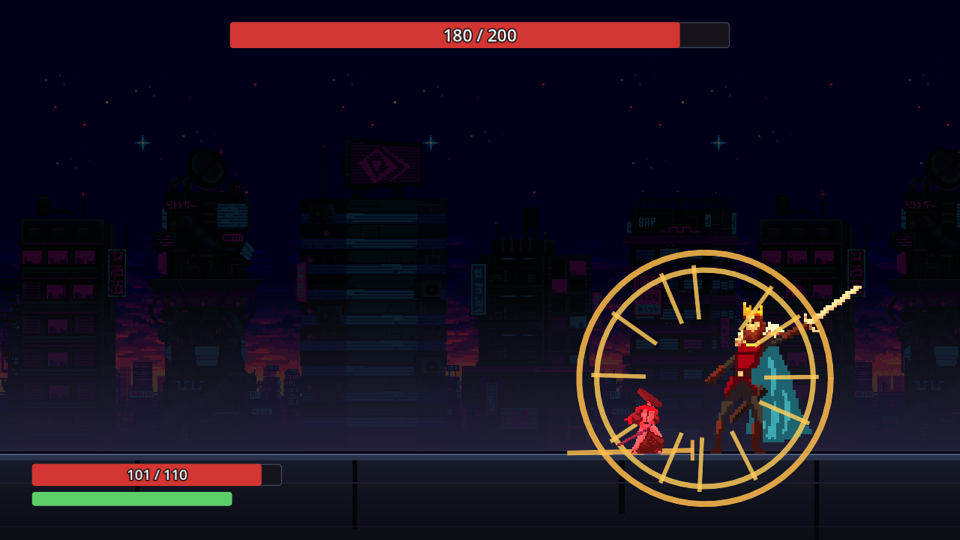
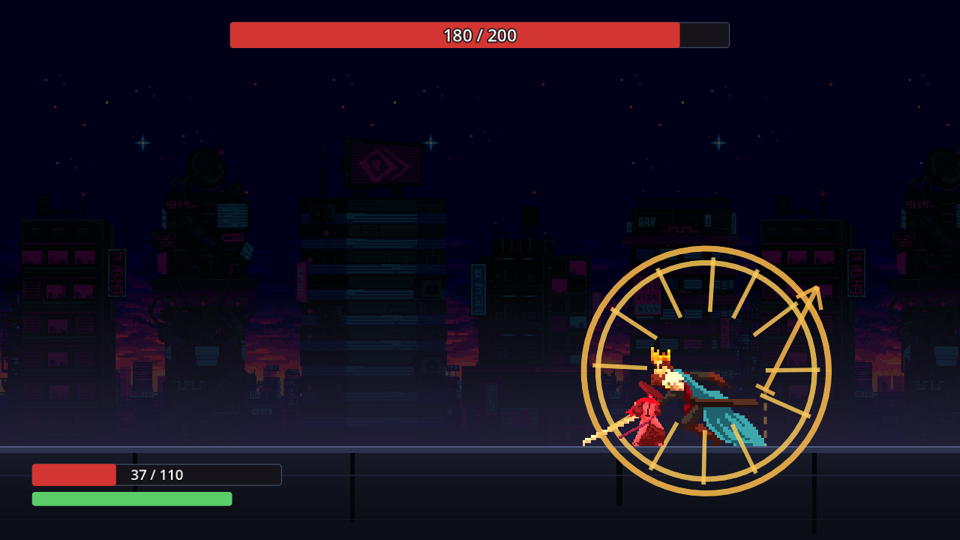
캐릭터를 하나로 줄이고 공격을 실제 그림에 맞춘다 (#38)
유저가 공격해도 칼 휘두르는 그림이 안 나왔다. 원인은 공격 액션이
애니메이션보다 짧았던 것이다 — Martial Hero 의 attack 은 6프레임 ·
12fps = 0.50초인데 중검의 액션은 0.30초라, 액션이 끝나며 뷰가 idle 로
돌아가 **칼이 나가는 4번 프레임까지 간 적이 한 번도 없었다.**
여기에 공격 섬광(2.10, 2.10, 1.70)이 그나마 보이던 몇 프레임을 덮었다.

- fighters.json 을 `검객` 하나로. 수치는 게임이 실제로 돌리던 중검
  그대로라 대시 사거리 · 점프 정점 · 패턴 기하가 안 움직인다.
- 공격 시간을 그림에서 거꾸로 정한다. 시트를 열어 보면 칼은 4번
  프레임에서 나간다: 선딜 0~3 (0.3333) · 판정 4 (0.0833) · 후딜 5
  (0.0834), 합이 정확히 0.50초다. attack_anim_* 세 값을 데이터에 적어
  FighterDataTests 가 그 관계를 지킨다 — .tres 에만 있으면 테스트가
  못 읽어 다시 조용히 어긋난다.
- 공격 섬광을 (1.25, 1.20, 1.00) 으로 낮춘다. 세기는 앞쪽 슬래시 링이
  맡는다 — 이 자리에는 작가가 그린 흰 궤적이 이미 있어서, 할 일은 말을
  더 하는 것이 아니라 그 그림을 안 가리는 것이다.
- 스크린샷이 프레임 수를 세지 않는다. Battle.FighterAttackActive 를 보고
  셔터를 누른다 — 세어 두면 타이밍을 고칠 때마다 조용히 어긋난다.
- PatternDataTests 의 두 점프 가드에 캐릭터 집합 비었는지 확인을 맞춘다.
  패턴 하나의 jumpable 을 뒤집어 둘 다 실제로 빨개지는 것을 확인했다.
- 캐릭터 3택이 사라져도 난이도 예측의 character 축은 남긴다. 지금 1종이라
  상수지만, 지우면 캐릭터가 늘 때 라벨을 처음부터 다시 만들어야 한다.

Changed region(s): [[0.0, 0.4444, 1.0, 0.9481]]

diff --git a/tests/Overfit.Rules.Tests/Battle/FighterDataTests.cs b/tests/Overfit.Rules.Tests/Battle/FighterDataTests.cs
@@ -13,10 +13,20 @@ public class FighterDataTests
     private static Dictionary<string, FighterConfig> Load() =>
         JsonData<FighterConfig>.ParseTable(File.ReadAllText(Path.Combine("data", "fighters.json")), "fighters.json");
 
+    /// <summary>
+    /// 시뮬레이션이 볼 수 있는 가장 짧은 시간. 이보다 가는 차이는 규칙 층에서 관측되지 않으므로
+    /// 애니메이션과 액션을 맞출 때의 허용 오차도 이것이다 — 더 좁게 잡으면 데이터에 적을 수 없는
+    /// 소수(1/12초 = 0.0833…)를 요구하게 되고, 더 넓게 잡으면 한 프레임이 통째로 어긋나도 초록이다.
+    /// </summary>
+    private const double _halfTick = BattleSim.Dt / 2;
+
     [Fact]
-    public void 캐릭터가_셋이다()
+    public void 캐릭터가_하나다()
     {
-        Load().Count.ShouldBe(3);
+        // 셋(단검 · 중검 · 대검)이던 것을 하나로 줄였다 (이슈 #38). 캐릭터 3택은 성장 루프와
+        // 같이 빠졌는데(이슈 #22) 데이터만 남아 있었고, 그림은 처음부터 셋이 같은 하나였다.
+        // 아래 가드들이 전부 이 표를 순회하므로, 표가 비면 그것들이 통째로 공허하게 참이 된다.
+        Load().Count.ShouldBe(1);
     }
 
     [Fact]
@@ -58,7 +68,7 @@ public class FighterDataTests
     /// <summary>
     /// 대시 한 번이 실제로 가는 거리(px). <b>속도 × 지속을 곱해 적지 않는다</b> —
     /// 행동이 끝나는 틱에는 <c>Move</c> 가 이미 Idle 을 보므로 실제 이동 틱은 하나 적고,
-    /// 그 한 틱(중검 기준 36.7px)이 "보스를 지나는가" 의 경계에 그대로 걸린다.
+    /// 그 한 틱(36.7px)이 "보스를 지나는가" 의 경계에 그대로 걸린다.
     /// <see cref="PatternDataTests"/> 의 점프 정점과 같은 이유로 규칙을 직접 돌린다.
     /// </summary>
     private static double DashTravel(FighterConfig config)
@@ -78,7 +88,7 @@ public class FighterDataTests
     public void 대시는_보스_몸을_한_번에_지난다()
     {
         // 이슈 #27 의 대시 요구다. "몸 하나를 지난다" 는 **닿은 자리에서 반대편 닿은 자리까지**,
-        // 즉 보스 반폭 + 파이터 반폭의 두 배다 (보스 반폭 85 · 중검 30 → 230px).
+        // 즉 보스 반폭 + 파이터 반폭의 두 배다 (보스 반폭 85 · 파이터 반폭 30 → 230px).
         // 전에는 1100 × 0.18 ≈ 198(실측 183)이라 몸 하나도 못 지났다 — 몸 충돌이 있던 때는
         // 벽에 막혀서 그 사실이 안 보였고, 통과가 열린 지금은 그대로 몸 안에 서게 된다.
         double bossHalf = TestConfigs.Boss().HalfWidth;
@@ -96,25 +106,55 @@ public class FighterDataTests
         // 사거리를 늘릴 때 **무적 비율을 건드리지 않았다**는 계약이다(이슈 #27).
         // 거리는 속도로 늘리고 지속·무적은 그대로 둔다 — 지속을 늘려 거리를 벌면 무적 비율이
         // 같이 움직여 "더 멀리 가는 같은 기술" 이 아니라 **다른 기술**이 된다.
-        // 셋이 비슷해야 캐릭터를 바꿔도 대시 타이밍 축이 같은 것을 재는 값이 된다.
+        // 캐릭터가 여럿이 되면 전부 이 범위 안이어야 한다 — 그래야 캐릭터를 바꿔도
+        // 대시 타이밍 축이 같은 것을 재는 값이다.
         foreach ((string id, FighterConfig c) in Load())
         {
             double share = c.DashIFrames / c.DashDuration;
-            share.ShouldBeInRange(0.70, 0.85, $"{id}: 무적 비율 {share:0.00} 이 다른 캐릭터와 다른 기술이 됐다");
+            share.ShouldBeInRange(0.70, 0.85, $"{id}: 무적 비율 {share:0.00} 이 대시를 다른 기술로 만든다");
         }
     }
 
     [Fact]
-    public void 사거리와_속도가_반대로_간다()
+    public void 공격_액션이_공격_애니메이션_한_번과_같은_길이다()
     {
-        // 빠른 것은 짧고 느린 것은 길다. 셋이 같은 값이면 캐릭터 선택이 무의미하다.
-        Dictionary<string, FighterConfig> all = Load();
-        var byReach = new List<FighterConfig>(all.Values);
-        byReach.Sort((a, b) => a.AttackReach.CompareTo(b.AttackReach));
+        // **이 저장소에서 실제로 밟은 버그다** (이슈 #38). 공격 액션의 총 길이(선딜 + 판정 + 후딜)가
+        // 애니메이션 재생 시간보다 짧으면, 액션이 끝나는 순간 뷰가 자세를 idle 로 되돌려
+        // 애니메이션이 중간에서 잘린다. 중검은 0.30초짜리 액션으로 0.50초짜리 6프레임을 돌렸고,
+        // 칼이 나가는 5번째 프레임까지 간 적이 한 번도 없었다 — **칼 휘두르는 그림이 안 보였다.**
+        //
+        // 그래서 순서를 뒤집는다: 애니메이션이 먼저고 액션 길이가 거기 맞춘다.
+        foreach ((string id, FighterConfig c) in Load())
+        {
+            double anim = c.AttackAnimFrames / c.AttackAnimFps;
+            double cycle = c.AttackWindup + c.AttackActive + c.AttackRecover;
+            cycle.ShouldBe(anim, _halfTick,
+                $"{id}: 공격 액션 {cycle:0.0000}초가 애니메이션 {anim:0.0000}초와 다르다 — 그림이 잘리거나 남는다");
+        }
+    }
 
-        // 사거리가 짧을수록 공격 사이클이 빨라야 한다
-        double CycleOf(FighterConfig c) => c.AttackWindup + c.AttackActive + c.AttackRecover;
-        CycleOf(byReach[0]).ShouldBeLessThan(CycleOf(byReach[1]));
-        CycleOf(byReach[1]).ShouldBeLessThan(CycleOf(byReach[2]));
+    [Fact]
+    public void 공격_판정이_칼이_지나가는_프레임_위에_선다()
+    {
+        // 판정이 서는 구간과 **화면에서 칼이 지나가는 구간**이 같은 자리여야 한다.
+        // 어긋나면 "닿았는데 칼은 아직 등 뒤" 또는 그 반대가 되고, 플레이어는 사거리를 못 배운다.
+        // blade_frame 은 시트를 실제로 열어서 정한 값이다 — 프레임 번호로 짐작한 것이 아니다.
+        foreach ((string id, FighterConfig c) in Load())
+        {
+            double frame = 1 / c.AttackAnimFps;
+
+            c.AttackAnimBladeFrame.ShouldBeInRange(0, c.AttackAnimFrames - 1,
+                $"{id}: blade_frame={c.AttackAnimBladeFrame} 이 {c.AttackAnimFrames}프레임 밖이다");
+
+            c.AttackWindup.ShouldBe(c.AttackAnimBladeFrame * frame, _halfTick,
+                $"{id}: 선딜이 끝나는 자리가 칼이 나가는 {c.AttackAnimBladeFrame}번 프레임의 시작과 다르다");
+
+            c.AttackActive.ShouldBeGreaterThanOrEqualTo(frame - _halfTick,
+                $"{id}: 판정이 한 프레임보다 짧다 — 칼이 지나가는 그림 위에 판정이 못 선다");
+
+            (c.AttackWindup + c.AttackActive).ShouldBeLessThanOrEqualTo(
+                (c.AttackAnimFrames / c.AttackAnimFps) + _halfTick,
+                $"{id}: 판정이 애니메이션 밖으로 넘친다");
+        }
     }
 }

diff --git a/overfit/battle/view/FighterView.cs b/overfit/battle/view/FighterView.cs
@@ -52,7 +52,19 @@ public partial class FighterView : Node2D
     /// <summary>부정확 패리에 굳은 동안의 몸 색. 어둡고 채도가 죽는다 — 안 보이면
     /// 0.6초 동안 키가 안 먹는 것이 버그로 읽힌다.</summary>
     private static readonly Color _lockedTint = new(0.50f, 0.46f, 0.58f);
-    private static readonly Color _attackFlash = new(2.10f, 2.10f, 1.70f);
+
+    /// <summary>
+    /// 공격 섬광. <b>일부러 약하다.</b> 전에는 (2.10, 2.10, 1.70) 이라 0.09초 동안 몸이 흰색으로
+    /// 날아갔는데, 그 0.09초가 정확히 <b>칼이 지나가는 한 프레임</b> 위에 떨어진다 —
+    /// 유일하게 보여줘야 할 그림을 섬광이 덮고 있었다(이슈 #38).
+    ///
+    /// <para>
+    /// 다른 섬광들(패리 2.60 · 피격 2.40)이 센 것은 그 자리에 <b>그림이 없기 때문</b>이다:
+    /// 팩에 패리 애니메이션이 없어 섬광이 곧 피드백이다. 공격은 반대다 — 작가가 흰 궤적을
+    /// 이미 그려 뒀으므로, 여기서 할 일은 말을 더 하는 것이 아니라 그 그림을 안 가리는 것이다.
+    /// </para>
+    /// </summary>
+    private static readonly Color _attackFlash = new(1.25f, 1.20f, 1.00f);
     private static readonly Color _slashColor = new(1.00f, 0.92f, 0.72f, 0.95f);
     private static readonly Color _hitFlash = new(2.40f, 0.45f, 0.45f);
 
@@ -130,8 +142,15 @@ public partial class FighterView : Node2D
     }
 
     /// <summary>
-    /// 공격 판정이 선 틱. 몸 섬광 <b>하나로는 안 읽혔다</b> — 캐릭터가 130px 뿐이라
-    /// 살짝 밝아지는 것은 이 크기에서 보이지 않는다. 칼이 닿는 앞쪽에 섬광을 하나 더 세운다.
+    /// 공격 판정이 선 틱 — 시트에서 <b>칼이 실제로 지나가는 프레임</b>이다
+    /// (fighters.json 의 attack_anim_blade_frame).
+    ///
+    /// <para>
+    /// 여기서 하는 일은 둘이다. 몸을 <b>살짝</b> 밝히고(<see cref="_attackFlash"/>), 칼이 닿는
+    /// 앞쪽에 섬광을 하나 세운다. 몸 섬광만으로는 130px 짜리 캐릭터에서 안 읽혀서 앞쪽 섬광을
+    /// 더했었는데, 그 뒤 몸 섬광을 세게 올려 놓는 바람에 <b>정작 칼 그림을 덮고 있었다</b>(이슈 #38).
+    /// 앞쪽 섬광이 세기를 맡으므로 몸은 약해도 된다.
+    /// </para>
     /// </summary>
     public void AttackActive()
     {

diff --git a/overfit/battle/rules/FighterConfig.cs b/overfit/battle/rules/FighterConfig.cs
@@ -71,11 +71,31 @@ public sealed class FighterConfig
 
     public required double AttackCost { get; init; }
 
+    // ── 공격 애니메이션의 사실 셋 ────────────────────────────────────────────────
+    //
+    // **규칙은 이 셋을 안 읽는다.** 여기 있는 이유는 위의 세 시간(선딜·판정·후딜)이
+    // 이 셋에서 **거꾸로 정해지기 때문**이다 — 그리고 그 관계를 지키는 것이 테스트의 일이다.
+    // 값을 뷰나 .tres 에만 두면 테스트가 못 읽어, 액션이 그림보다 짧아도 아무도 안 빨개진다.
+    // 실제로 그랬다(이슈 #38): 0.30초짜리 공격이 0.50초짜리 6프레임을 돌려 칼이 나가기 전에
+    // idle 로 돌아갔고, 그래서 **칼 휘두르는 그림이 한 번도 화면에 안 나왔다.**
+
+    /// <summary>공격 애니메이션의 재생 속도(fps). <c>.tres</c> 의 <c>speed</c> 와 같은 값이다.</summary>
+    public required double AttackAnimFps { get; init; }
+
+    /// <summary>공격 애니메이션의 프레임 수. 재생 시간은 <c>frames / fps</c> 다.</summary>
+    public required int AttackAnimFrames { get; init; }
+
+    /// <summary>
+    /// 칼이 실제로 지나가는 프레임의 번호(0부터). <b>시트를 열어서 정한다</b> —
+    /// 번호로 짐작하지 않는다. 선딜은 여기까지고, 판정은 여기서부터 선다.
+    /// </summary>
+    public required int AttackAnimBladeFrame { get; init; }
+
     /// <summary>초당 회복량. 행동 중에는 회복하지 않는다.</summary>
     public required double StaminaRegen { get; init; }
 
     /// <summary>
-    /// Duelyst SpriteFrames 의 id. <b>규칙은 이 값을 안 쓴다</b> — 뷰가 읽어 그릴 뿐이다.
+    /// <c>assets/spriteframes/&lt;id&gt;.tres</c> 의 id. <b>규칙은 이 값을 안 쓴다</b> — 뷰가 읽어 그릴 뿐이다.
     /// 여기 두는 이유는 "이 캐릭터가 무엇인가"의 진실이 data/fighters.json 한 곳이어야 하기 때문이다.
     /// </summary>
     public required string Sprite { get; init; }

diff --git a/tests/Overfit.Rules.Tests/Battle/PatternDataTests.cs b/tests/Overfit.Rules.Tests/Battle/PatternDataTests.cs
@@ -70,8 +70,8 @@ public class PatternDataTests
     ///
     /// <para>
     /// 공식(v²/2g)을 여기 베껴 적지 않는 이유는 그것이 <b>연속</b> 적분이기 때문이다.
-    /// <c>Fighter.Fall</c> 은 매 틱 <c>v -= g·dt; y += v·dt</c> 로 이산 적분하고, 단검 기준으로
-    /// 연속은 184.08 · 이산은 176.33 이 나온다 — 7.75px 차이다. 연속값으로 가드를 세우면
+    /// <c>Fighter.Fall</c> 은 매 틱 <c>v -= g·dt; y += v·dt</c> 로 이산 적분하고, 옛 단검 수치로
+    /// 재 보면 연속은 184.08 · 이산은 176.33 이 나온다 — 7.75px 차이다. 연속값으로 가드를 세우면
     /// 그 차이만큼 가드가 거짓말을 한다. 실제 규칙을 돌리면 어긋날 자리가 없다.
     /// </para>
     /// </summary>
@@ -136,6 +136,12 @@ public class PatternDataTests
         // 세 패턴의 height 를 거기 맞췄다. 한쪽만 고치면 여기서 빨개진다.
         const double margin = 1.8;
         Dictionary<string, PatternDef> patterns = Load();
+        Dictionary<string, double> apexes = TestConfigs.Fighters()
+            .ToDictionary(f => f.Key, f => JumpApex(f.Value));
+
+        // 위 가드와 같은 이유로 못박는다 — 캐릭터 표가 비면 아래 foreach 가 공허하게 참이다.
+        // 캐릭터를 셋에서 하나로 줄이면서(이슈 #38) 이 집합이 실제로 작아졌다.
+        apexes.ShouldNotBeEmpty("캐릭터가 하나도 없다 — 이 가드가 아무것도 안 본다");
 
         double clearable = patterns.Values.Where(d => d.Tags.Jumpable)
             .SelectMany(d => d.Timeline.Where(s => s.Kind == "active"))
@@ -144,7 +150,7 @@ public class PatternDataTests
             .SelectMany(d => d.Timeline.Where(s => s.Kind == "active"))
             .Min(s => s.Height![1]);
 
-        foreach ((string who, double apex) in TestConfigs.Fighters().ToDictionary(f => f.Key, f => JumpApex(f.Value)))
+        foreach ((string who, double apex) in apexes)
         {
             apex.ShouldBeGreaterThan(clearable * margin,
                 $"{who}: 정점 {apex:0.00}px 이 넘어야 할 판정({clearable}px)을 겨우 넘는다");

diff --git a/tests/Overfit.Rules.Tests/Battle/TestConfigs.cs b/tests/Overfit.Rules.Tests/Battle/TestConfigs.cs
@@ -10,8 +10,10 @@ namespace Overfit.Rules.Tests.Battle;
 /// csproj 가 그 파일들을 출력 폴더의 <c>data/</c> 로 복사한다.
 ///
 /// <para>
-/// 파이터만 리터럴이다. 이것은 특정 캐릭터가 아니라 <b>기준값</b>이라 fighters.json 의 세 캐릭터 중
-/// 어느 하나를 골라 쓰면 그 캐릭터의 밸런스를 고칠 때마다 무관한 테스트가 같이 빨개진다.
+/// 파이터만 리터럴이다. 이것은 특정 캐릭터가 아니라 <b>기준값</b>이라, fighters.json 의 캐릭터를
+/// 그대로 쓰면 그 캐릭터의 밸런스를 고칠 때마다 무관한 테스트가 같이 빨개진다. 캐릭터가 하나가 된
+/// 뒤에도(이슈 #38) 마찬가지다 — 공격 타이밍 하나를 그림에 맞추려고 패리 틱 수를 세는 테스트가
+/// 같이 움직이면, 그 테스트들은 더 이상 자기가 말하는 것을 말하지 않는다.
 /// 보스·아레나·상한은 반대다 — 실제 전투가 쓰는 바로 그 값이어야 게임·데모·골든이 같은 판을 말한다.
 /// </para>
 /// </summary>
@@ -39,6 +41,12 @@ public static class TestConfigs
         AttackWindup = 0.08,
         AttackActive = 0.06,
         AttackRecover = 0.14,
+        // 기준 파이터에는 그림이 없지만 셋의 관계는 진짜여야 한다 — 50fps · 14프레임이면
+        // 재생 0.28초로 위 셋의 합과 같고, 4번 프레임(0.08초)이 선딜의 끝이다.
+        // 거짓 값을 넣으면 이 픽스처가 "애니메이션에서 거꾸로 정한다"는 규칙의 반례가 된다.
+        AttackAnimFps = 50,
+        AttackAnimFrames = 14,
+        AttackAnimBladeFrame = 4,
         AttackReach = 90,
         AttackDamage = 8,
         AttackCost = 12,

diff --git a/overfit/battle/debug/ShotRunner.cs b/overfit/battle/debug/ShotRunner.cs
@@ -96,9 +96,14 @@ public partial class ShotRunner : Node
 
         await Wait(0.5);
 
-        // ── 공격: 판정이 서는 순간(선딜 0.09초 ≈ 6프레임) ─────────────────
+        // ── 공격: 칼이 지나가는 그 프레임 ─────────────────────────────────
+        // **프레임 수를 세지 않는다.** 전에는 "선딜 0.09초 ≈ 6프레임" 이라 적고 여섯을 셌는데,
+        // 그 숫자는 fighters.json 의 선딜과 손으로 맞춘 사본이라 값이 바뀌면 조용히 어긋난다.
+        // 그리고 실제로 어긋나 있었다(이슈 #38): 공격 액션이 애니메이션보다 짧아 칼이 나가는
+        // 프레임까지 가지도 못했고, 이 스크린샷은 내내 **칼을 뒤로 뺀 자세**를 찍고 있었다.
+        // 판정이 서는 틱이 곧 그 프레임이므로 규칙에게 물어보고 셔터를 누른다.
         Tap("attack");
-        await Frames(6);
+        await Until(() => _battle?.FighterAttackActive == true, _pollTimeout);
         await Screenshot.CaptureAsync(this, "battle-5-attack");
 
         // ── 보스 피격: 작가가 그린 흰 실루엣 (이슈 #28) ───────────────────

diff --git a/overfit/battle/Battle.cs b/overfit/battle/Battle.cs
@@ -83,6 +83,14 @@ public partial class Battle : Node2D
     public int FighterHealth => _broken ? 0 : _sim.Fighter.Health;
 
     /// <summary>
+    /// 공격 판정이 선 틱인가. 위와 같이 디버그 전용 읽기다 — 이 순간이 곧 <b>칼이 지나가는
+    /// 프레임</b>이라(fighters.json 의 attack_anim_blade_frame), 스크린샷이 "칼이 보이는가" 를
+    /// 증명하려면 프레임 수를 세는 대신 이것을 보고 셔터를 눌러야 한다. 세어 두면 공격 타이밍을
+    /// 고치는 순간 조용히 어긋나 선딜 자세만 찍힌다 — 이슈 #38 전의 스크린샷이 그랬다.
+    /// </summary>
+    public bool FighterAttackActive => !_broken && !_over && _sim.Fighter.AttackActive;
+
+    /// <summary>
     /// 보스의 남은 체력. 위와 같이 디버그 전용 읽기다 — 줄어든 직후가 <b>흰 피격 실루엣</b>이 뜨는
     /// 순간이고(이슈 #28), 그건 0.2초뿐이라 벽시계로 노리면 대부분 놓친다.
     /// </summary>

diff --git a/tests/Overfit.Rules.Tests/Battle/HitResolverTests.cs b/tests/Overfit.Rules.Tests/Battle/HitResolverTests.cs
@@ -159,7 +159,7 @@ public class HitResolverTests
     // ── 패턴의 창이 실제로 문다 (이슈 #16) ─────────────────────────────────────
     //
     // 전에는 HitResolver 가 파이터의 창만 봤다. 패턴이 parry_window 0.10 을 선언해도
-    // 중검의 0.12 가 그대로 이겨서 **그 숫자는 아무것도 안 했다** — 그런데 망은 그 숫자를 배운다.
+    // 파이터의 0.12 가 그대로 이겨서 **그 숫자는 아무것도 안 했다** — 그런데 망은 그 숫자를 배운다.
     // 거짓말하는 숫자는 없는 숫자보다 나쁘다. 이제 유효 창은 **둘 중 좁은 쪽**이다.
 
     [Fact]

diff --git a/overfit/battle/rules/HitResolver.cs b/overfit/battle/rules/HitResolver.cs
@@ -63,7 +63,7 @@ public static class HitResolver
 
         // 유효 창은 **패턴과 캐릭터 중 좁은 쪽**이다.
         //
-        // 전에는 캐릭터 쪽만 봤다. 대공찌르기가 parry_window 0.10 을(중검의 0.12 보다 좁게)
+        // 전에는 캐릭터 쪽만 봤다. 대공찌르기가 parry_window 0.10 을(그때 캐릭터의 0.12 보다 좁게)
         // 선언해도 아무 일도 안 일어났는데 — 그 숫자는 망의 입력이 된다. 거짓말하는 숫자는
         // 없는 숫자보다 나쁘다. "빠른 공격은 패리하기 더 어렵다" 는 진짜 설계 레버라
         // 태그를 지우는 대신 물게 했다.

diff --git a/README.md b/README.md
@@ -16,7 +16,7 @@
 > |---|---|
 > | 이동 · 점프 · 대시 · 2단계 패리 · 공격 | **딥러닝 패턴 선택** — 이 저장소의 목적 그 자체 |
 > | 백장의 패턴 셋, 패턴별 예고, 히트 판정 | 보스가 하나 · 패턴이 셋 (4~5단계는 3단계와 같다) |
-> | 승패 · 결과 화면 · 단계 진행 | 캐릭터 3택 · 스탯 강화 (이슈 #22 로 뺐다) |
+> | 승패 · 결과 화면 · 단계 진행 | 캐릭터 3택 · 스탯 강화 (이슈 #22 로 뺐다 · 캐릭터는 [#38](https://github.com/Atralupus/OVERFIT/issues/38) 에서 하나로) |
 > | 회피 계측 10축, 헤드리스 전투 · 리플레이 골든 | 사운드 · 음악 |
 > | macOS 빌드 | 윈도우 · 리눅스 빌드 |
 >
@@ -73,9 +73,9 @@
 |---|---|---|
 | **이동** | ← → (A D) | |
 | **점프** | Space | 정점 약 300px — 선 몸통(120px)의 2.5배, 보스 키와 거의 같다. **낮은 판정을 넘는 것이 전부**이고 보스를 넘는 수단이 아니다 |
-| **대시** | Shift | 한 번에 367px 나간다(중검 기준). 보스 몸 하나를 확실히 지나는 거리이고, 그 동안 무적이다 |
+| **대시** | Shift | 한 번에 367px 나간다. 보스 몸 하나를 확실히 지나는 거리이고, 그 동안 무적이다 |
 | **패리** | F | 제자리에서 받아친다. 아래 셋으로 갈린다 |
-| **공격** | J | 보스가 굳은 틈에 넣는다 |
+| **공격** | J | 보스가 굳은 틈에 넣는다. **한 번이 0.50초**로 느리다 — 그림의 6프레임(12fps)을 끝까지 재생하는 길이이고, 칼은 5번째 장에서 나간다 |
 
 ### 패리는 성공/실패가 아니라 셋이다
 
@@ -165,6 +165,8 @@
 
 ③ 망 학습 (Python)     f(플레이어 잠재, 캐릭터, 패턴 태그) → 피격 확률
                        샘플이 수백만이라 MLP 를 쓸 근거가 있다
+                       **캐릭터 축은 지금 1종이다** — 상수라 아무것도 안 가르지만,
+                       축을 지우면 캐릭터가 늘 때 데이터를 처음부터 다시 만들어야 한다
 
 ④ 런타임 추론 (C#)     수십~수백 건의 실제 관측으로 그 사람의 잠재 벡터만 추정
                        → 망으로 패턴 전부를 점수 매겨 상위 k 선택

diff --git a/overfit/assets/LICENSES.md b/overfit/assets/LICENSES.md
@@ -64,9 +64,10 @@ tools/build.sh import                       # ⚠ 반드시 한 번
 이펙트로 대신한다 — 대시는 `run` + 잔상, 패리는 `hit` 프레임 정지 + 히트스톱.
 2D 액션에서 이 둘의 피드백은 애니메이션이 아니라 이펙트·히트스톱이 결정한다.
 
-**캐릭터가 하나뿐이다.** `fighters.json` 의 셋(단검 · 중검 · 대검)이 전부 같은 `martial_hero` 를 가리킨다.
-Martial Hero 팩에 캐릭터가 하나라서다. 지금 화면에 서는 것은 `balance.json` 이 가리키는 하나뿐이라
-당장 문제가 되지 않지만, 3택이 돌아오면 팩이 더 필요하다.
+**캐릭터가 하나뿐이다.** Martial Hero 팩에 캐릭터가 하나라서다.
+`fighters.json` 도 셋(단검 · 중검 · 대검)이 전부 같은 `martial_hero` 를 가리키다가
+이슈 [#38](https://github.com/Atralupus/OVERFIT/issues/38) 에서 하나(`검객`)로 줄었다 —
+데이터가 셋이어도 그림은 처음부터 하나였다. 3택이 돌아오면 팩이 더 필요하다.
 
 **없는 이름으로 `Play` 하면 엔진이 `ERROR:` 를 찍고 그건 헤드리스 판정을 실패시킨다.**
 뷰는 이름을 그대로 믿지 말고 `SpriteFrames.HasAnimation` 으로 확인하고 없으면 로그만 남기고 넘어가야 한다.
